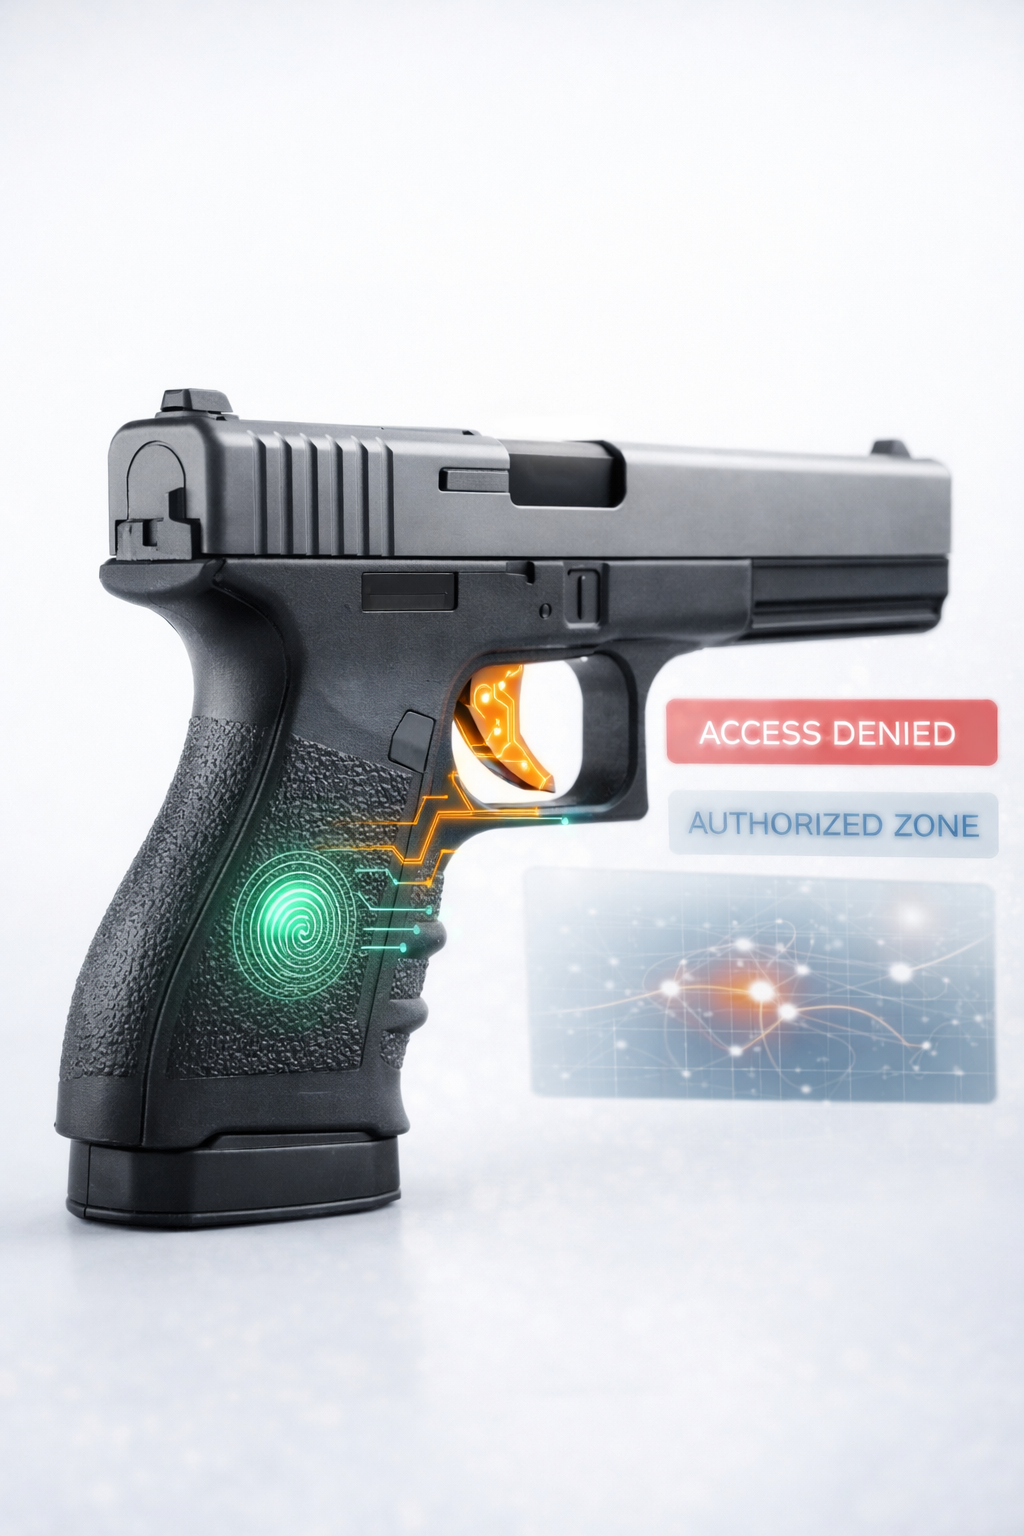
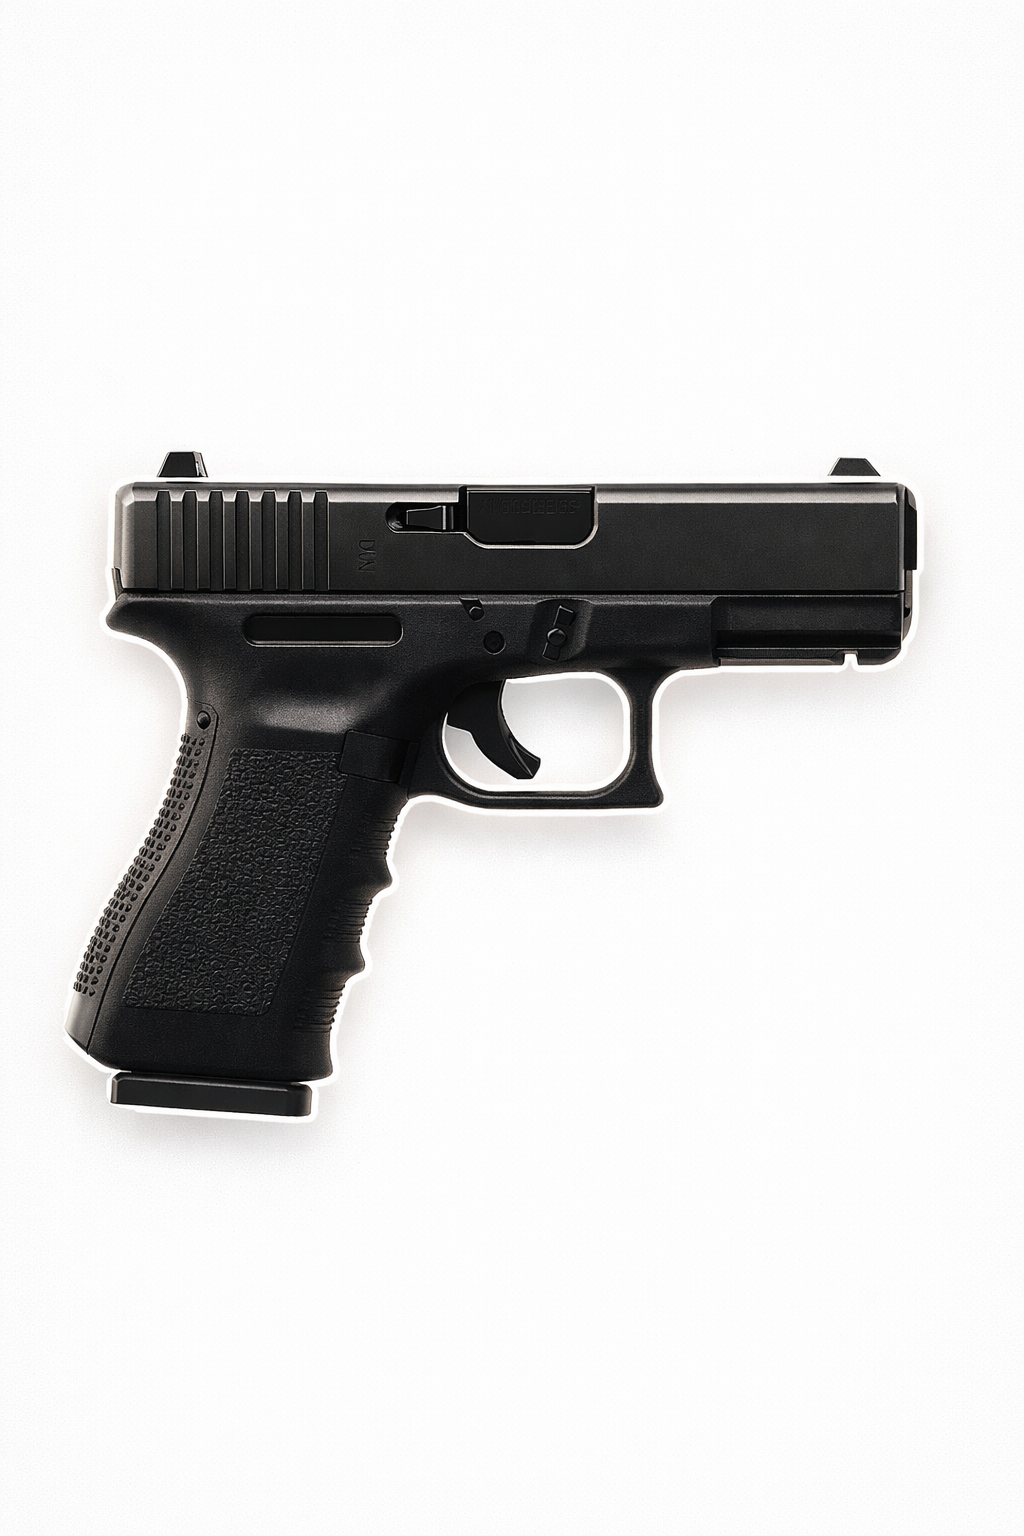
update portfolio

diff --git a/PORTFOLIO/src/App.tsx b/PORTFOLIO/src/App.tsx
@@ -180,7 +180,8 @@ const projectCards: ProjectCard[] = [
     description:
       'Ensures weapons operate only in authorized zones and locks the trigger outside permitted areas.',
     tech: ['ESP32', 'Embedded C', 'RFID', 'React.js'],
-    image: '/gun4.png',
+    imageLight: '/gun4.png',
+    imageDark: '/gun3.png',
   },
   {
     title: 'AI-Driven SaaS Renewal Optimization Engine',
